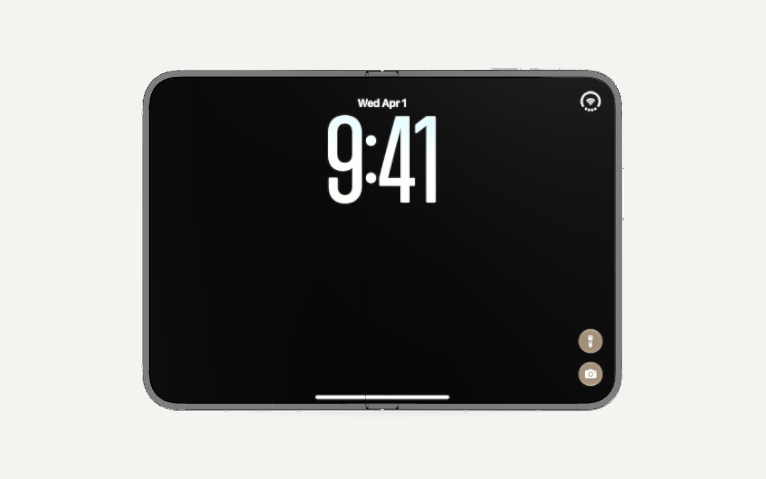
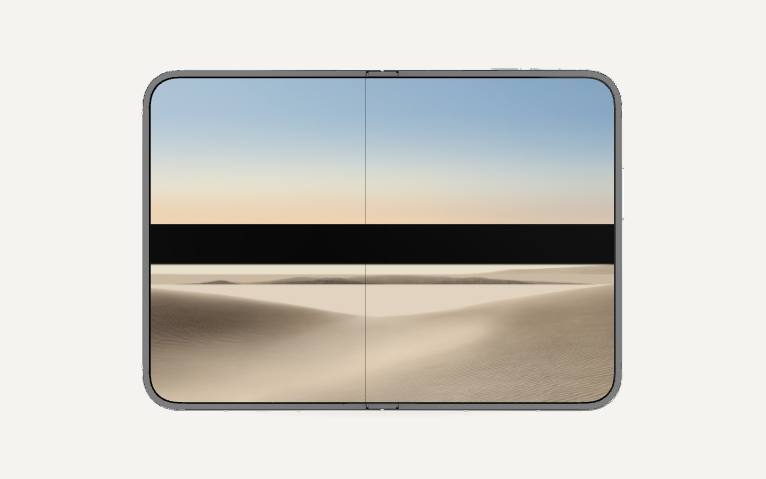
Default demo screens now use the product-gallery wallpaper
#product-gallery on apple.com/sg/iphone-duo is the RT viewer whose
wallpaper is a parallax scene (sky with stars, far dunes, hills, close
dune). Composite those official layers statically — bottom-up overlap,
edges are pre-blended into the strips — and ship the result at exact
slot sizes for all five poses, replacing the flattened lock-screen
images. Compositing lives in scripts/prepare-apple-assets.py so the
whole set stays reproducible from reference/apple-duo.

diff --git a/src/i18n/zh.ts b/src/i18n/zh.ts
@@ -138,7 +138,7 @@ export const zh = {
   'hint.outputAnimation': '视频最长边 1280 px · GIF 最长边 640 px',
   'hint.outputImage': 'PNG 按所选尺寸导出，保持界面比例。',
   'demo.description':
-    '缺图时的占位画面使用 Apple 官网 iPhone Duo 的官方锁屏演示图，上传素材前即可体验各种形态与导出。',
+    '缺图时的占位画面使用 Apple 官网商品图册中的 iPhone Duo 官方壁纸，上传素材前即可体验各种形态与导出。',
   'demo.note': '演示图仅用于展示工具能力，上传你的截图即可生成真实效果图与动画。',
   'demo.link': '查看 Apple 官网 iPhone Duo ↗',
   'footer.local': '100% 浏览器本地处理',
@@ -156,7 +156,7 @@ export const zh = {
     'PNG 用于展示，MP4/WebM/GIF 用于宣传。批量 ZIP 只包含实际上传的场景。保存项目文件可携带全部截图。',
   'help.privacyNote': '素材不会上传。自动保存仅在当前浏览器内；清理浏览器数据前，请下载项目备份。',
   'help.assetsNote':
-    '设备采用 Apple 官网公开的网格与开合动画，材质及屏幕效果在本地渲染；占位画面为 Apple 官网 iPhone Duo 官方锁屏演示图。没有上传素材时会明确显示“Apple 示例”，不会生成自动适配结果。',
+    '设备采用 Apple 官网公开的网格与开合动画，材质及屏幕效果在本地渲染；占位画面为 Apple 官网 iPhone Duo 官方壁纸。没有上传素材时会明确显示“Apple 示例”，不会生成自动适配结果。',
   'help.storeNote':
     'App Store App Preview 需要以 App 自身录屏为基础；本工具的设备动画用于宣传。截图规范参考日期：2026-09-10。',
   'help.appleSpecs': '查看 Apple 截图规格 ↗',

diff --git a/src/i18n/en.ts b/src/i18n/en.ts
@@ -145,7 +145,7 @@ export const en = {
   'hint.outputAnimation': 'Video max edge 1280 px · GIF max edge 640 px',
   'hint.outputImage': 'PNG exports at the selected size, keeping the UI ratio.',
   'demo.description':
-    'Placeholder screens use the official iPhone Duo lock screen imagery from apple.com, so you can explore poses and exports before uploading anything.',
+    'Placeholder screens use the official iPhone Duo wallpaper from the apple.com product gallery, so you can explore poses and exports before uploading anything.',
   'demo.note':
     'Demo images are for showcasing only — upload your own screens to generate real mockups and animations.',
   'demo.link': 'See iPhone Duo on apple.com ↗',
@@ -167,7 +167,7 @@ export const en = {
   'help.privacyNote':
     'Assets never leave your device. Autosave stays in this browser; download a project backup before clearing browser data.',
   'help.assetsNote':
-    'The device uses the mesh and fold animation published on the Apple website; materials and screen effects are rendered locally. Placeholder screens are Apple’s official iPhone Duo lock screen imagery. Until you upload assets, screens are clearly marked "Apple demo" — nothing is auto-adapted.',
+    'The device uses the mesh and fold animation published on the Apple website; materials and screen effects are rendered locally. Placeholder screens are Apple’s official iPhone Duo wallpaper. Until you upload assets, screens are clearly marked "Apple demo" — nothing is auto-adapted.',
   'help.storeNote':
     'App Store App Previews must be based on real app screen recordings; this tool’s device animation is for promotion. Screenshot specs referenced on 2026-09-10.',
   'help.appleSpecs': 'View Apple screenshot specs ↗',

diff --git a/scripts/prepare-apple-assets.py b/scripts/prepare-apple-assets.py
@@ -49,24 +49,45 @@ def decode_ktx(name):
     return Image.frombytes('RGBA', (width, height), rgba, 'raw', 'BGRA').convert('RGB')
 
 
-# Placeholder demo screens: Apple's own lock screen imagery from the iPhone Duo
-# viewer. inner is 2048x1441 (inner landscape ratio), outer is exactly 1398x2034.
-# Portrait/standing variants are centre crops so every file matches its slot spec.
+# Placeholder demo screens: the wallpaper from the page's #product-gallery
+# viewer, statically composited from its parallax layers (sky / far dunes /
+# hills / close dunes). The layers are opaque strips whose soft edges are
+# baked into RGB, so simple bottom-up overlapping reproduces the scene.
 demo = pathlib.Path('public/demo/apple')
 demo.mkdir(parents=True, exist_ok=True)
-inner = decode_ktx('lockscreen_ui_inner-wallpaper_png.ktx')
-outer = decode_ktx('lockscreen_ui_outer-wallpaper_png.ktx')
-assert inner.size == (2048, 1441) and outer.size == (1398, 2034)
-inner.resize((2853, 2007), Image.LANCZOS).save(demo / 'inner.png', optimize=True)
-portrait_width = round(inner.height * 2007 / 2853)
-inner.crop(
-    ((inner.width - portrait_width) // 2, 0, (inner.width + portrait_width) // 2, inner.height)
-).resize((2007, 2853), Image.LANCZOS).save(demo / 'inner-portrait.png', optimize=True)
-landscape_height = round(inner.width * 1398 / 2034)
-inner.crop(
-    (0, (inner.height - landscape_height) // 2, inner.width, (inner.height + landscape_height) // 2)
-).resize((2034, 1398), Image.LANCZOS).save(demo / 'outer-landscape.png', optimize=True)
-outer.save(demo / 'outer.png', optimize=True)
+layers = {
+    part: decode_ktx(f'{name}_cropped-wallpaper_png.ktx')
+    for part, name in [
+        ('sky', 'sky_3k'),
+        ('far', 'dune_far_3k'),
+        ('hills', 'hills_5k'),
+        ('close', 'dune_close_3k'),
+    ]
+}
+
+
+def compose_wallpaper(width, height):
+    canvas = Image.new('RGB', (width, height))
+    dune_share = 0.62 if width < height else 0.55
+    sky = layers['sky'].resize((width, round(height * (1 - dune_share))), Image.LANCZOS)
+    canvas.paste(sky, (0, 0))
+    band = round(height * dune_share)
+    close = layers['close'].resize((width, round(band * 0.66)), Image.LANCZOS)
+    hills = layers['hills'].resize((width, round(band * 0.16)), Image.LANCZOS)
+    far = layers['far'].resize((width, round(band * 0.13)), Image.LANCZOS)
+    canvas.paste(far, (0, height - close.height - hills.height + round(band * 0.05)))
+    canvas.paste(hills, (0, height - close.height - round(hills.height * 0.35)))
+    canvas.paste(close, (0, height - close.height))
+    return canvas
+
+
+for name, width, height in [
+    ('inner', 2853, 2007),
+    ('inner-portrait', 2007, 2853),
+    ('outer', 1398, 2034),
+    ('outer-landscape', 2034, 1398),
+]:
+    compose_wallpaper(width, height).save(demo / f'{name}.png', optimize=True)
 print(
     f'Prepared {len(model["meshes"])} meshes, {len(model["images"])} textures, '
     f'{len(model["animations"])} animations, 4 demo screens'

diff --git a/README.zh-CN.md b/README.zh-CN.md
@@ -41,7 +41,7 @@ npm run format:check
 4. 导出 PNG、MP4、WebM、GIF、真实上传场景 ZIP，或严格尺寸的纯界面 PNG。
 5. 保存 `.duo.json` 项目可携带全部素材。浏览器会自动保存到 IndexedDB，清除站点数据会移除本地自动保存。
 
-缺图时默认使用 Apple 官网 iPhone Duo 的官方锁屏演示图（来自 https://www.apple.com/sg/iphone-duo ），界面及导出文件名带示例标识。关闭示例后，缺图会阻断正式导出。批量 ZIP 包含真实上传场景及由内屏左半边生成的外屏，不包含示例。
+缺图时默认使用 Apple 官网 iPhone Duo 商品图册中的官方壁纸（合成自 https://www.apple.com/sg/iphone-duo 的视差图层），界面及导出文件名带示例标识。关闭示例后，缺图会阻断正式导出。批量 ZIP 包含真实上传场景及由内屏左半边生成的外屏，不包含示例。
 
 演示图仅用于展示工具能力，用户上传后优先展示自己的图片。切换静态场景后调整折叠进度会保留该姿态。旧版上架套图项目导入后自动切换为展示图，并保留素材及历史设置。
 

diff --git a/README.md b/README.md
@@ -68,7 +68,7 @@ More details in [docs/PRD.md](docs/PRD.md), [docs/IMPLEMENTATION_PLAN.md](docs/I
 - [DuoLikeAnimation](https://github.com/elijah-semyonov/DuoLikeAnimation) — inspiration for the open/close animation approach.
 - Codex Astra — this project was built with the help of the Codex Astra coding agent.
 
-Default placeholder screens are Apple's official iPhone Duo lock screen imagery ([apple.com/sg/iphone-duo](https://www.apple.com/sg/iphone-duo)), used only to demonstrate the tool.
+Default placeholder screens reproduce the wallpaper from Apple's iPhone Duo product gallery ([apple.com/sg/iphone-duo](https://www.apple.com/sg/iphone-duo)), used only to demonstrate the tool.
 
 ## License
 
